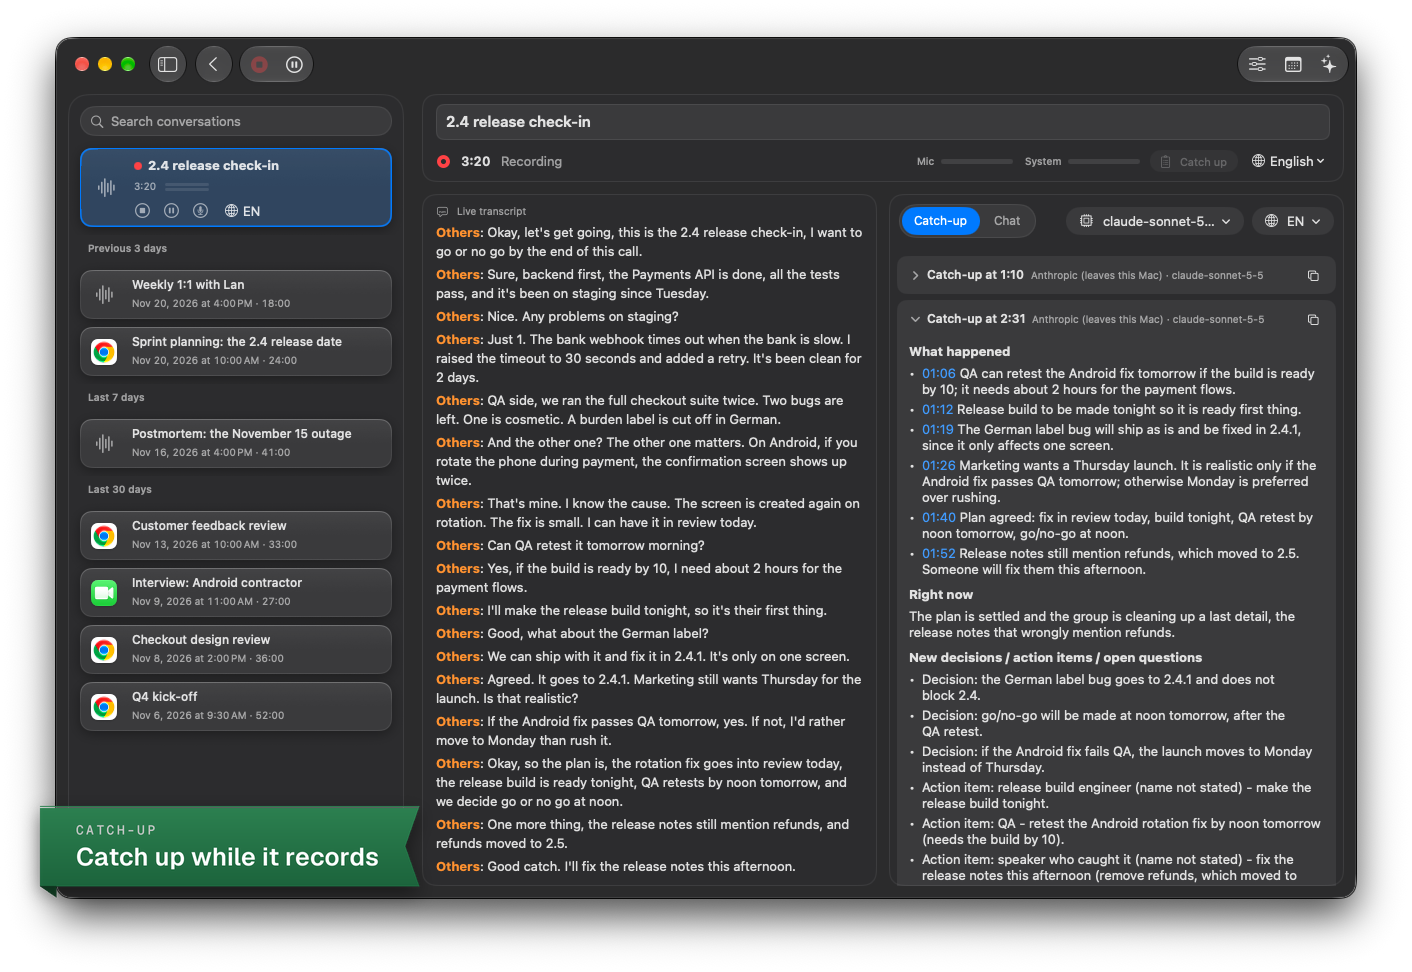
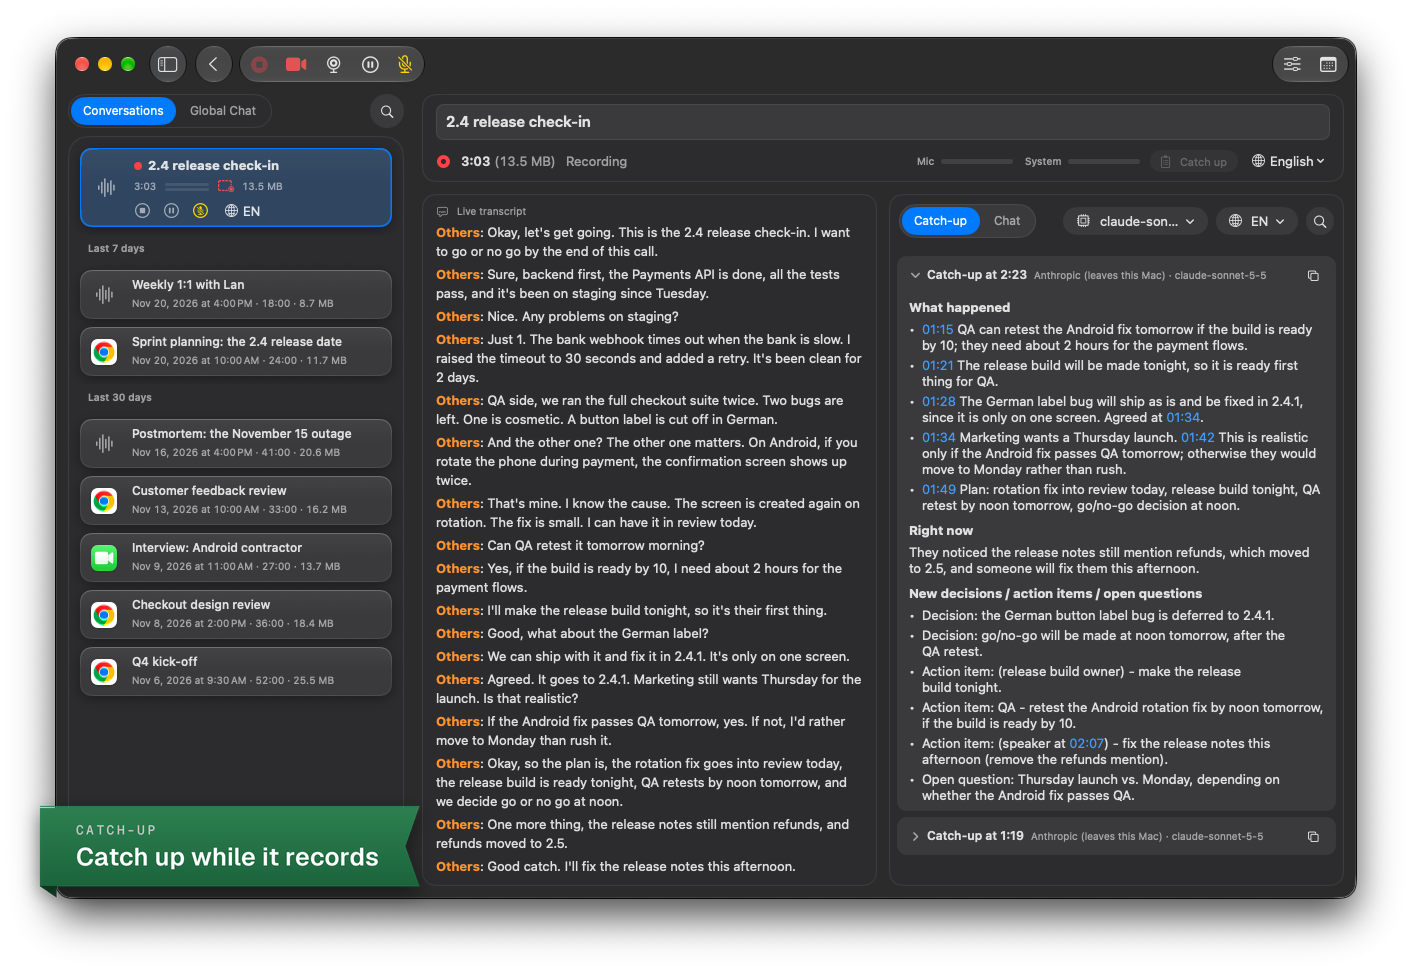
docs(website): new screenshots for the two-column layout and screen recording

diff --git a/website/index.html b/website/index.html
@@ -369,22 +369,22 @@
             <figcaption>Chat while recording</figcaption>
           </figure>
           <figure class="shot">
-            <button type="button" data-zoom aria-label="View screenshot full screen: transcript with speakers">
+            <button type="button" data-zoom aria-label="View screenshot full screen: screen recording">
               <img
                 src="screenshots/echodiar_s_3.webp"
-                alt="EchoDiar transcript of a sprint meeting with named speakers, the line being played back highlighted"
+                alt="EchoDiar on Mac: a screen recording above its transcript, the line being played back highlighted, next to the AI summary"
                 width="1412"
                 height="972"
                 loading="lazy"
               />
             </button>
-            <figcaption>Who said what</figcaption>
+            <figcaption>Screen recording</figcaption>
           </figure>
           <figure class="shot">
             <button type="button" data-zoom aria-label="View screenshot full screen: AI summary">
               <img
                 src="screenshots/echodiar_s_4.webp"
-                alt="EchoDiar AI summary of a meeting with timestamped key points, decisions and action items"
+                alt="EchoDiar transcript of a sprint meeting with named speakers next to its AI summary, with timestamped key points, decisions and action items"
                 width="1412"
                 height="972"
                 loading="lazy"
@@ -396,7 +396,7 @@
             <button type="button" data-zoom aria-label="View screenshot full screen: chat with citations">
               <img
                 src="screenshots/echodiar_s_5.webp"
-                alt="EchoDiar chat about a meeting with answers that cite timestamps"
+                alt="EchoDiar transcript of a meeting next to the Chat tab, with answers that cite timestamps"
                 width="1412"
                 height="972"
                 loading="lazy"
@@ -405,10 +405,10 @@
             <figcaption>Chat with citations</figcaption>
           </figure>
           <figure class="shot">
-            <button type="button" data-zoom aria-label="View screenshot full screen: library chat">
+            <button type="button" data-zoom aria-label="View screenshot full screen: Global Chat">
               <img
                 src="screenshots/echodiar_s_6.webp"
-                alt="EchoDiar library chat answering from four meetings, with numbered sources, next to the cited transcript"
+                alt="EchoDiar Global Chat in the sidebar answering from four meetings, with numbered sources, next to the cited transcript and its summary"
                 width="1412"
                 height="972"
                 loading="lazy"
@@ -456,7 +456,7 @@
             <button type="button" data-zoom aria-label="View screenshot full screen: Windows, transcript">
               <img
                 src="screenshots/echodiar_s_10.webp"
-                alt="EchoDiar on Windows 11, in the light theme: the transcript of a sprint meeting with named speakers, the line being played back highlighted"
+                alt="EchoDiar on Windows 11, in the light theme: the transcript of a sprint meeting next to its summary, the cited line highlighted"
                 width="1412"
                 height="972"
                 loading="lazy"
